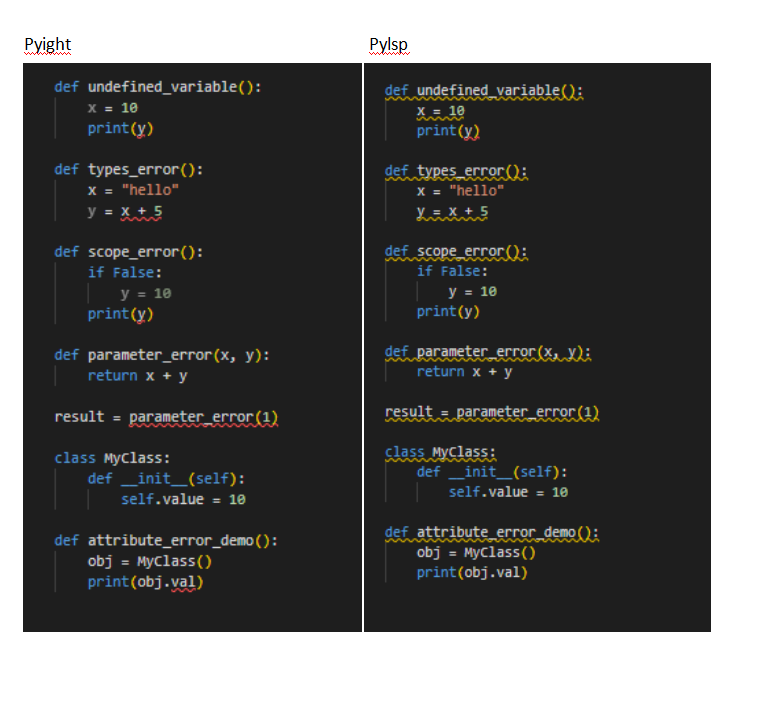
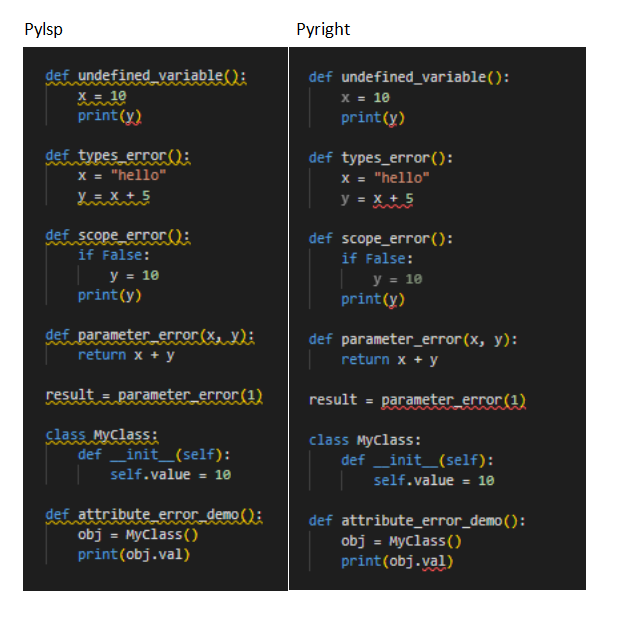
fix comments

Changed region(s): [[0.03, 0.0303, 0.9305, 0.9682], [0.7804, 0.5143, 0.8104, 0.5748]]

diff --git a/content/en/blog/pyright-llm-enhanced-udf/index.md b/content/en/blog/pyright-llm-enhanced-udf/index.md
@@ -1,10 +1,10 @@
 ---
-title: "Suggesting Python Code Type Annotations with LLMs -- A Language Server Enhancement"
+title: "Suggesting Python Code Type Annotations with LLM -- A Language Server Enhancement"
 description: ""
-lead: "In this blog, we introduce how we enhanced the Texera Python User-Defined Function（UDF) editor by integrating Large Language Models (LLMs) to suggest Python code type annotations, thereby overcoming the limitations of dynamic typing of traditional language servers like  Pyright and python-language-server (Pylsp)."
-date: 2024-09-07T11:38:41-07:00
-publishDate: 2024-08-30T00:00:00-07:00
-lastmod: 2024-09-07T11:38:41-07:00
+lead: "In this blog, we introduce how we enhanced the Texera Python User-Defined Function（UDF) editor by integrating Large Language Models (LLM) to suggest Python code type annotations, thereby overcoming the limitations of dynamic typing of traditional language servers like  Pyright and python-language-server (Pylsp)."
+date: 2024-09-10T20:12:02-07:00
+publishDate: 2024-09-10T20:12:02-07:00
+lastmod: 2024-09-10T20:12:02-07:00
 draft: false
 weight: 50
 contributors: ["Minchong Wu"]
@@ -15,11 +15,11 @@ affiliations: ["Computer Science, UC Irvine"]
 
 The User-Defined Function (UDF) operators in Texera are crucial for allowing developers to customize their workflows. To improve the development experience, we need a python language server that can detect both syntax and semantic errors early in the coding process.
 
-Previously, we relied on the Pylsp for basic language server functions like syntax checks and code completion. However, Pylsp had difficulty on detecting more complex semantic errors in user code, particularly with type mismatches. To enhance the user experience and provide more accurate error feedback on such semantic issues, we choose Pyright— a python language server with more powerful static type checking capabilities. Pyright helps developers write more robust and maintainable code by catching issues such as type mismatches early, significantly reducing debugging time.
+Previously, we relied on the Pylsp for basic language server functions, including syntax checks and code completion. However, Pylsp had difficulty on detecting more complex semantic errors in user code, particularly with type mismatches. To enhance the user experience and provide more accurate error feedback on such semantic issues, we choose Pyright— a python language server with more powerful static type checking capabilities. Pyright helps developers write more robust and maintainable code by catching issues such as type mismatches, significantly reducing debugging time.
 
 <figure align="center">
   <a href="language_server_compare.png">
-    <img src="language_server_compare.png" alt="Fig 1" style="width:70%">
+    <img src="language_server_compare.png" alt="Fig 1" style="width:70%; border:none;">
   </a>
   <figcaption align = "center">
     <i>
@@ -28,52 +28,12 @@ Previously, we relied on the Pylsp for basic language server functions like synt
   </figcaption>
 </figure>
 
-In Figure 1, there is a very basic comparison between two language servers on the same code. The yellow lines represent warnings, and the red lines represent errors. With Pylsp, it can recommend fixes with formatting suggestions from [PEP 8 style guide](https://peps.python.org/pep-0008/#style-guide), such as the [two blank line requirement](https://peps.python.org/pep-0008/#blank-lines) between functions. It is limited to formatting warnings, instead of code correctness. Also, as shown in the figure, when using Pylsp, there is only one red line, indicating that it detected only one meaningful semantic error. In contrast, Pyright correctly identified all the relevant errors, which is reflected by the additional red lines. For example, there is a type error in the second `def` block where `y = x + 5` and `x` is a string. This leads to a semantic error, as you cannot add a string and an integer. This demonstrates Pyright’s superior ability to detect semantic issues, making it a better choice for enhancing the UDF code editor.
+
+Figure 1 shows a comparison between two language servers on the same code. The yellow lines represent warnings, and the red lines represent errors.  Pylsp can recommend fixes with formatting suggestions from  [PEP 8 style guide](https://peps.python.org/pep-0008/#style-guide), such as the [two blank line requirement](https://peps.python.org/pep-0008/#blank-lines) between functions. It is limited to formatting warnings, instead of code correctness. As shown in the figure, Pylsp has only one red line, indicating that it detected only one semantic error. In contrast, Pyright correctly identified all errors, reflected by the additional red lines. For example, there is a type error in the second `def` block where `y = x + 5` and `x` is a string. This leads to a semantic error, as we cannot add a string and an integer. This demonstrates Pyright’s superior ability to detect semantic errors, making it a better choice for enhancing the UDF code editor.
 
 
 ## Challenge: Type Inference Without Type Annotations
-The biggest challenge was that Pyright, while powerful, heavily relies on the presence of type annotations for accurate semantic error detection. Many Python code, especially the ones used in Texera Python UDFs, lacked the type annotations, leading to reduced accuracy of the language server in giving correct annotations. Therefore, the absence of accurate error detection could compromise code quality and user experience.
-
-## Solution
-**Type Annotation with LLMs**
-To tackle the challenge of handling code without type annotations, we integrated Large Language Models (LLMs) into the UDF editor. This integration enables the LLM to automatically suggest type annotations, thereby enhancing the effectiveness of Pyright's static analysis. The LLMs generate type annotation suggestions based on the context of the code. Users need to decide whether to accept the suggestion, and if they do, the suggestion will be added after the argument.
-
-We developed a backend RESTful API that interacts with OpenAI's GPT-4 API to generate these type annotation suggestions. Here are some key aspects of our implementation:
-
-1. **API Design**: Our API integrates AI-assisted type annotations into the Texera UDF editor. The frontend Angular service, `AIAssistantService`, provides a method to request type annotations for given code snippets. It communicates with a backend Scala resource, `AIAssistantResource`, which handles authentication, processes requests, and interacts with the OpenAI GPT-4 API. The backend formats the code context into a specific prompt structure, sends it to OpenAI's chat completions API, and returns the suggested type annotations to the frontend. This design ensures secure, efficient communication between the user interface, our server, and the AI model, delivering intelligent type suggestions.
-2. **Prompt Engineering**: We experimented with various prompts to optimize the LLM's performance. In the beginning, we simply asked it to provide type annotations for arguments, but we found that it often responded with explanations that we didn't need, which would cause errors if inserted into the code. So, we defined its task strictly to return in the form of `: type suggestion`, and we provided several different examples for the LLM to learn from to ensure it strictly follows our requirements, avoiding breaking the user's code.
-3. **Prompt Effectiveness**: We found that prompts providing more context about the function's purpose and usage led to more accurate type suggestions. After testing, we found that most of the time, it can provide satisfactory results, but occasionally, unsatisfactory suggestions may occur. Therefore, users still need to have some judgment to decide whether to accept or reject the type suggestion.
-
-<figure align="center">
-  <a href="suggestion%20_UI.png">
-    <img src="suggestion%20_UI.png" alt="Fig 2" style="width:70%">
-  </a>
-  <figcaption align = "center">
-    <i>
-      <b>Figure 2.</b> The type suggestion UI for either accept or decline.
-    </i>
-  </figcaption>
-</figure>
-
-This approach not only improve the accuracy of semantic error detection but also streamlines the development process by reducing the need for manual type annotations.
-
-## Architecture overview
-Figure 2 provides an overview of the architecture. The previously deployed components with Pylsp are shown in green, and the new structure shown in blue added in this blog. On top of the addition of the Pyright language server, two AI features have been introduced to enhance the performance of the Pyright language server.
-
-<figure align="center">
-  <a href="architecture_overview.png">
-    <img src="architecture_overview.png" alt="Fig 3" style="width:70%">
-  </a>
-  <figcaption align = "center">
-    <i>
-      <b>Figure 3.</b> New architecture of connecting UDF editor with Language server.
-    </i>
-  </figcaption>
-</figure>
-
-
-## Supported features
-For basic language server features, including hover, auto-completion, code linting, and go to definition, Pyright and Pylsp exhibit identical behavior. You can refer to the old blog for specific demonstrations: [Enhancing the UDF Editor by Adding Language Server Support](https://texera.github.io/blog/enhancing-the-udf-editor-by-adding-language-server-support/#challenges). Here, I will focus on how to use the two newly added AI features and whether these features have improved Pyright's ability to detect semantic errors.
+A main limitation of Pyright is that it relies on the presence of type annotations for accurate semantic error detection. Many Python programs, especially those used in Texera Python UDFs, may not have type annotations, leading to reduced accuracy of the language server in detecting correct annotations. Therefore, the absence of accurate error detection could compromise code quality and user experience.
 
 <figure align="center">
   <a href="before_annotation.png">
@@ -81,21 +41,62 @@ For basic language server features, including hover, auto-completion, code linti
   </a>
   <figcaption align = "center">
     <i>
-      <b>Figure 4.</b> Semantic error detection of Pyright language server without type annotation.
+      <b>Figure 2.</b> Semantic error detection of Pyright language server without type annotation.
     </i>
   </figcaption>
 </figure>
 
+As we can see, there are some semantic errors that Pyright is unable to detect due to lack of type annotations. In line 158, the `create_user` function should accept a string and an integer (here we suppose the user wants the `age` argument as an integer. The specific type needs to be determined based on the user's requirements), but the developer is calling this function with two strings. In line 173, the `update_age` function should accept an integer, but the developer is calling this function with a string as an argument. We will compare Pyright's capability in detecting semantic errors on the same code after our solution being applied.
 
-As you can see, there are some semantic errors that Pyright is unable to detect in this image due to the lack of type annotations (In line 158, the create_user function should accept a string and an integer, but the user is calling this function with two strings. In line 173, the update_age function should accept an integer, but the user is calling this function with a string as an argument). We will compare Pyright's capability in detecting semantic errors on the same code after the type annotations have been added using our AI features.
+## Solution
+**Type Annotation with LLM**
 
-1.**Add Type Annotation Button**: The feature gives a type suggestion of a single argument selected by the user. The users can interact with the UI and choose to accept or decline the suggestion. If the suggestion is accepted, it will be added as a type annotation in the correct location of the code; otherwise, the suggestion is ignored and the code and the code is not modified.
+To tackle the challenge of handling code without type annotations, we integrated a Large Language Models (LLM) into the UDF editor. This integration enables the LLM to automatically suggest type annotations, thereby enhancing the effectiveness of Pyright's static analysis. The LLM generate type annotation suggestions based on the context of the code. Users need to decide whether to accept the suggestion, and if they do, the suggestion will be added after the argument.
 
-<figure>
-  <a href="add_type_annotation.gif">
-    <img src="add_type_annotation.gif" alt="Fig 5" style="width:100%">
+We developed a backend RESTful API that interacts with OpenAI's GPT-4 API to generate type annotation suggestions. Here are some key aspects of our implementation:
+
+1. **API Design**: Our API integrates AI-assisted type annotations into the Texera UDF editor. The frontend Angular service, `AIAssistantService`, provides a method to request type annotations for the given code snippet. It communicates with a backend Scala service, `AIAssistantResource`, which handles authentication, processes requests, and interacts with the OpenAI GPT-4 API. The backend formats the code context into a specific prompt structure, sends it to OpenAI's chat completions API, and returns the suggested type annotations to the frontend. This design ensures secure, efficient communication between the user interface, the server, and the AI model.
+2. **Prompt Engineering**: We experimented with various prompts to optimize the LLM's performance. In the beginning, we simply asked it to provide type annotations for arguments, but we found that it often responded with explanations that were needed, which would cause errors if they inserted into the code. So we defined its task strictly to return in the form of `: type suggestion`, and  provided several different examples for the LLM to learn from to ensure it strictly follows our requirements.
+3. **Prompt Effectiveness**: We found that prompts providing more context about the function's purpose and usage led to more accurate type suggestions. After testing, we found that most of the time, it can provide satisfactory results, but occasionally, unsatisfactory suggestions may occur. Therefore, users still need to provide input to decide whether to accept or reject the type suggestion.
+
+<figure align="center">
+  <a href="suggestion%20_UI.png">
+    <img src="suggestion%20_UI.png" alt="Fig 2" style="width:70%">
   </a>
   <figcaption align = "center">
+    <i>
+      <b>Figure 3.</b> The type suggestion UI for either accept or decline.
+    </i>
+  </figcaption>
+</figure>
+
+This approach not only improves the accuracy of semantic error detection but also streamlines the development process by reducing the need for manual type annotations.
+
+## Architecture overview
+Figure 2 provides an overview of the architecture. The previously deployed components with Pylsp are shown in green, and the blue components are newly added. Two AI features have been introduced to enhance the performance of the Pyright language server.
+
+<figure align="center">
+  <a href="architecture_overview.png">
+    <img src="architecture_overview.png" alt="Fig 3" style="width:100%">
+  </a>
+  <figcaption align = "center">
+    <i>
+      <b>Figure 4.</b> New architecture of connecting UDF editor with Language server.
+    </i>
+  </figcaption>
+</figure>
+
+## Supported features
+For basic language server features, including mouse hover, auto-completion, code linting, and going to definition, Pyright and Pylsp exhibit identical behaviors. You can refer to the old blog for specific demonstrations: [Enhancing the UDF Editor by Adding Language Server Support](https://texera.github.io/blog/enhancing-the-udf-editor-by-adding-language-server-support/#challenges). Here, we will focus on how to use the two newly added AI features and whether these features can improve Pyright's ability to detect semantic errors.
+
+
+1. **"Add Type Annotation" Button**: The feature gives a type suggestion of a single argument selected by the user. The users can interact with the UI and choose to accept or decline the suggestion. If the suggestion is accepted, it will be added as a type annotation in the correct location of the code; otherwise, the suggestion is ignored and the code and the code is not modified.
+
+<figure align="center">
+  <a href="add_type_annotation.gif">
+    <img src="add_type_annotation.gif" alt="Fig 5" style="width:70%">
+  </a>
+  <figcaption align="center">
     <i>
       <b>Figure 5.</b> Examples of using "Add Type Annotation" button.
     </i>
@@ -103,13 +104,13 @@ As you can see, there are some semantic errors that Pyright is unable to detect 
 </figure>
 
 
-2.**Add All Type Annotations Button**: To accommodate the diverse needs of users, we offer a one-click feature designed to simplify the process. This feature gives type suggestions for all the arguments within the user-selected code. In this code snippet, each argument that requires a type annotation will be highlighted one by one, allowing the user to accept or decline each suggestion individually. By streamlining the process of identifying and annotating arguments, this feature significantly enhances convenience and reduces manual effort.
+2. **"Add All Type Annotations" Button**: To accommodate the diverse needs of users, we offer a one-click feature designed to simplify the process. This feature gives type suggestions for all the arguments within the user-selected code. In this code snippet, each argument that requires a type annotation will be highlighted, allowing the user to accept or decline each suggestion separately. By streamlining the process of identifying and annotating arguments, this feature significantly enhances convenience and reduces manual effort.
 
-<figure>
+<figure align="center">
   <a href="add_all_type_annotation.gif">
-    <img src="add_all_type_annotation.gif" alt="Fig 6" style="width:100%">
+    <img src="add_all_type_annotation.gif" alt="Fig 5" style="width:70%">
   </a>
-  <figcaption align = "center">
+  <figcaption align="center">
     <i>
       <b>Figure 6.</b> Examples of using "Add All Type Annotation" button.
     </i>
@@ -117,13 +118,13 @@ As you can see, there are some semantic errors that Pyright is unable to detect 
 </figure>
 
 ## Empowering Pyright with Inferred Type Annotations
-With all type annotations in place, users can fully enjoy Pyright's precise semantic type detection capabilities. As shown in the image below, compared to Figure 3, all semantic errors have been correctly identified by the Pyright language server.
+With all type annotations in place, users can fully enjoy Pyright's powerful semantic type detection capabilities. As shown in the image below, compared to Figure 3, all semantic errors have been correctly identified by the Pyright language server.
 
-<figure>
+<figure align="center">
   <a href="after_annotation.png">
-    <img src="after_annotation.png" alt="Fig 7" style="width:100%">
+    <img src="after_annotation.png" alt="Fig 5" style="width:70%">
   </a>
-  <figcaption align = "center">
+  <figcaption align="center">
     <i>
       <b>Figure 7.</b> Two more type errors are being detected after the type annotation being added.
     </i>
@@ -131,10 +132,10 @@ With all type annotations in place, users can fully enjoy Pyright's precise sema
 </figure>
 
 ## Limitation
-As we all know, while AI is incredibly smart and convenient, it can still make mistakes in rare cases. Therefore, users cannot completely rely on the type suggestions returned by the LLM; they are merely suggestions. Users need to evaluate whether the suggestion is correct based on the design requirements of their code and make a careful choice to accept or decline it.
+AI can make mistakes in some cases. Therefore, users cannot completely rely on the type suggestions returned by the LLM, which are merely suggestions. Users need to evaluate whether each suggestion is correct and maked a careful choice to accept or decline it.
 
 ## Summary
 In this blog, we showcased how we integrated the LLM with the Pyright language server to enhance the user experience of editing UDFs in Texera.
 
 ## Acknowledgements
-Thanks to Prof. Chen Li, Yicong Huang, and the Texera team for their help in the project and in this blog.
+Thanks to PhD Student Yicong Huang, Prof. Chen Li, and the Texera team for their help in the project.
